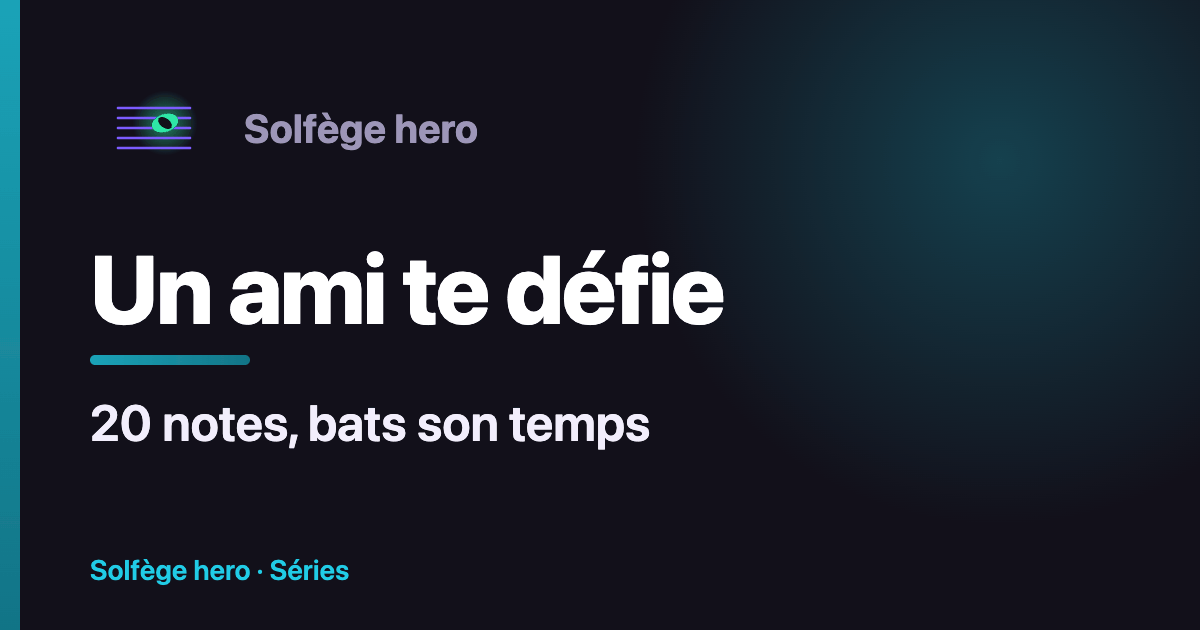
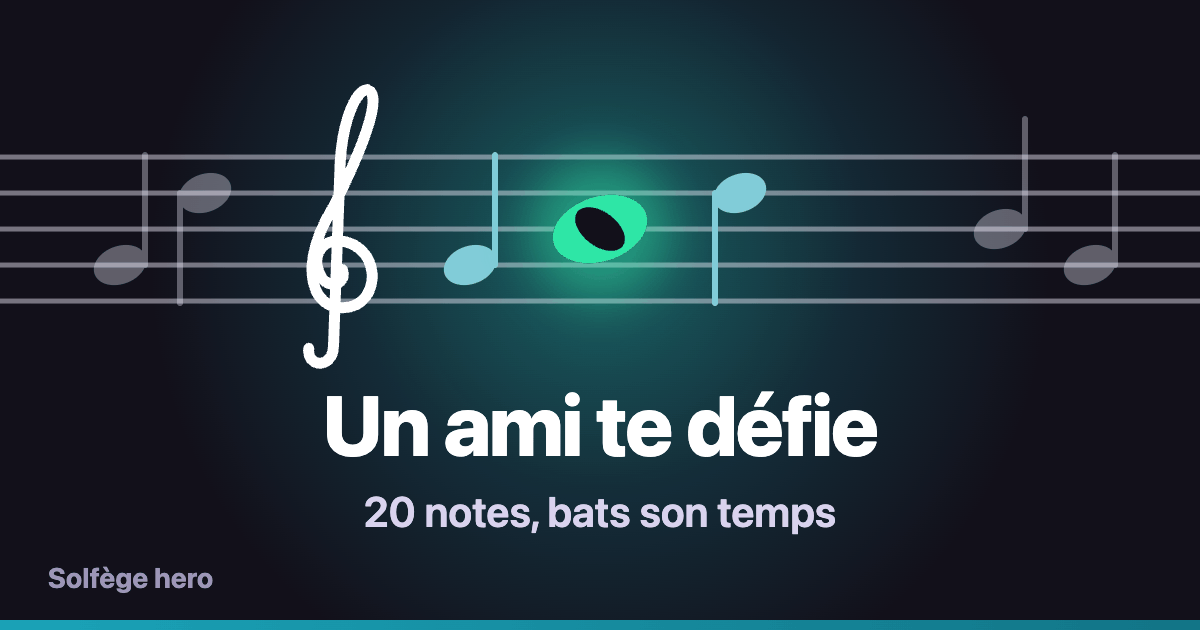
feat: og images readable as a square thumbnail
Centred staff, clef and brand note with an auto-fitted title inside the
middle 630x630 square that WhatsApp crops to, full-width staff for wide
cards, and og:image:type.

diff --git a/index.html b/index.html
@@ -21,6 +21,7 @@
     <meta property="og:description" content="Application gratuite pour apprendre à lire les notes sur la portée : clés de sol, fa et ut, séries chronométrées, survie, mode rythmique et partitions MusicXML, hors ligne." />
     <meta property="og:url" content="%SITE_URL%" />
     <meta property="og:image" content="%SITE_URL%og/og.png" />
+    <meta property="og:image:type" content="image/png" />
     <meta property="og:image:width" content="1200" />
     <meta property="og:image:height" content="630" />
     <meta property="og:image:alt" content="Solfège hero : apprendre à lire les notes" />
